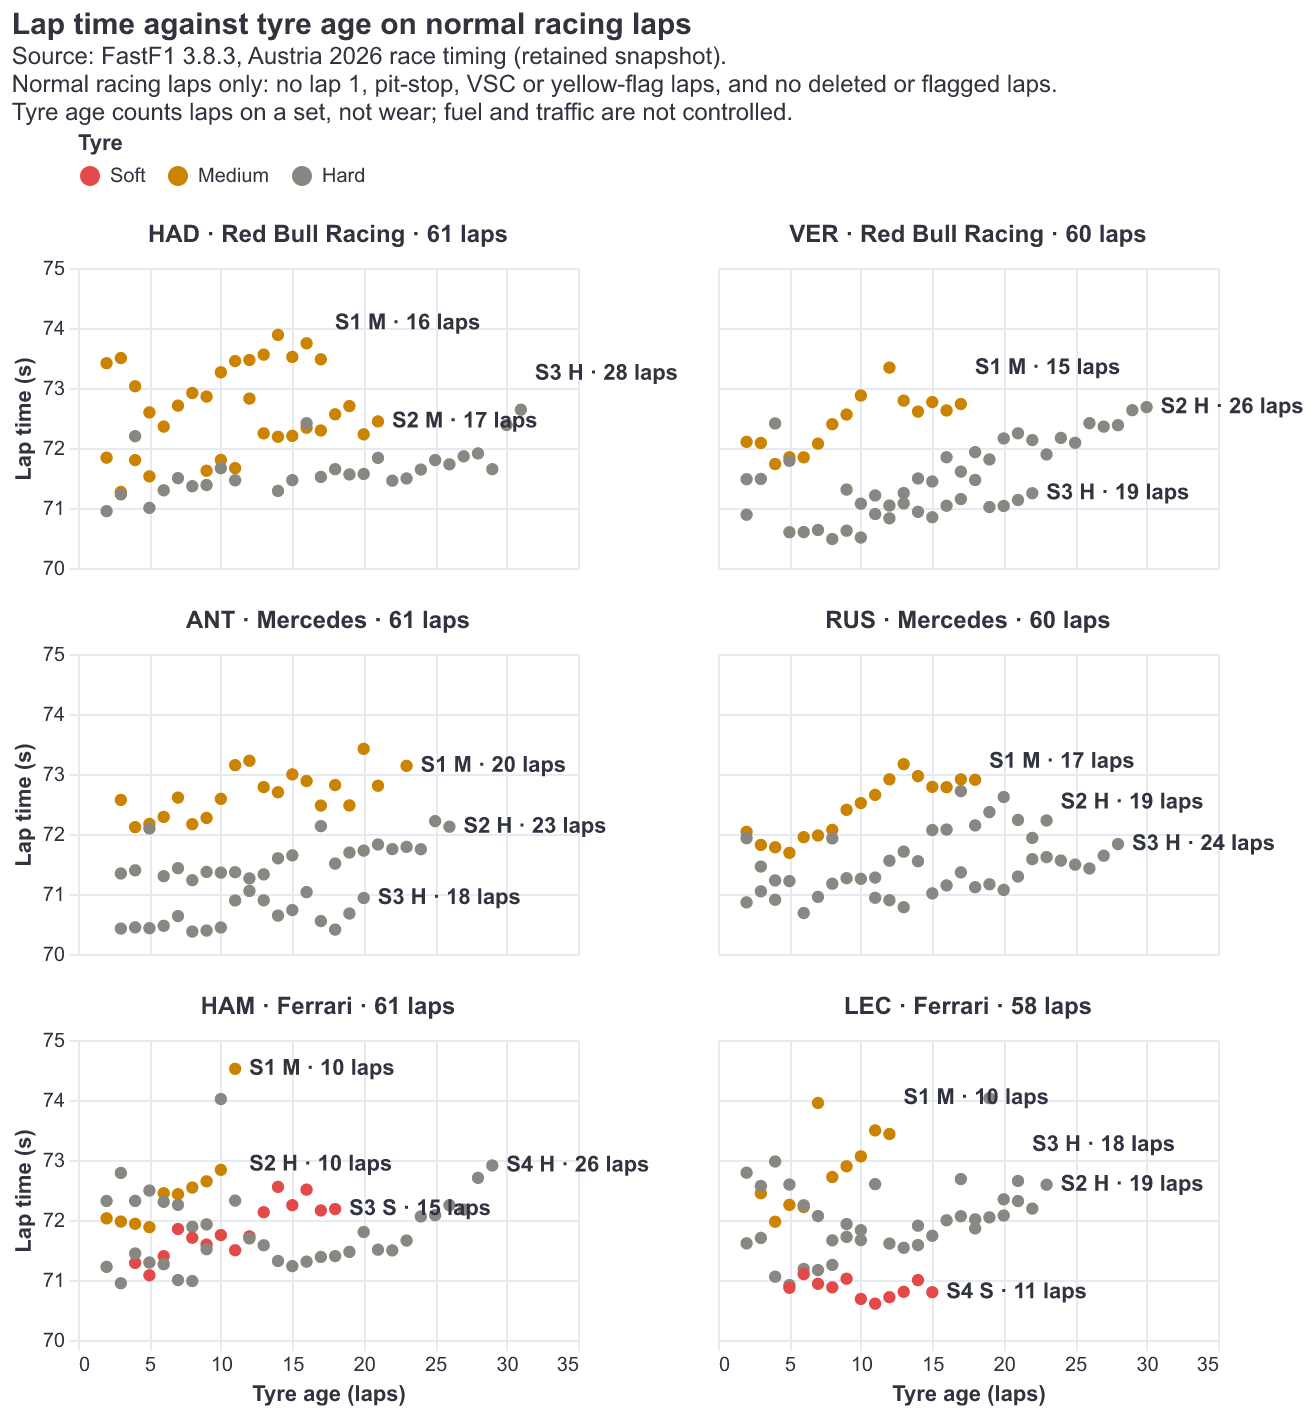
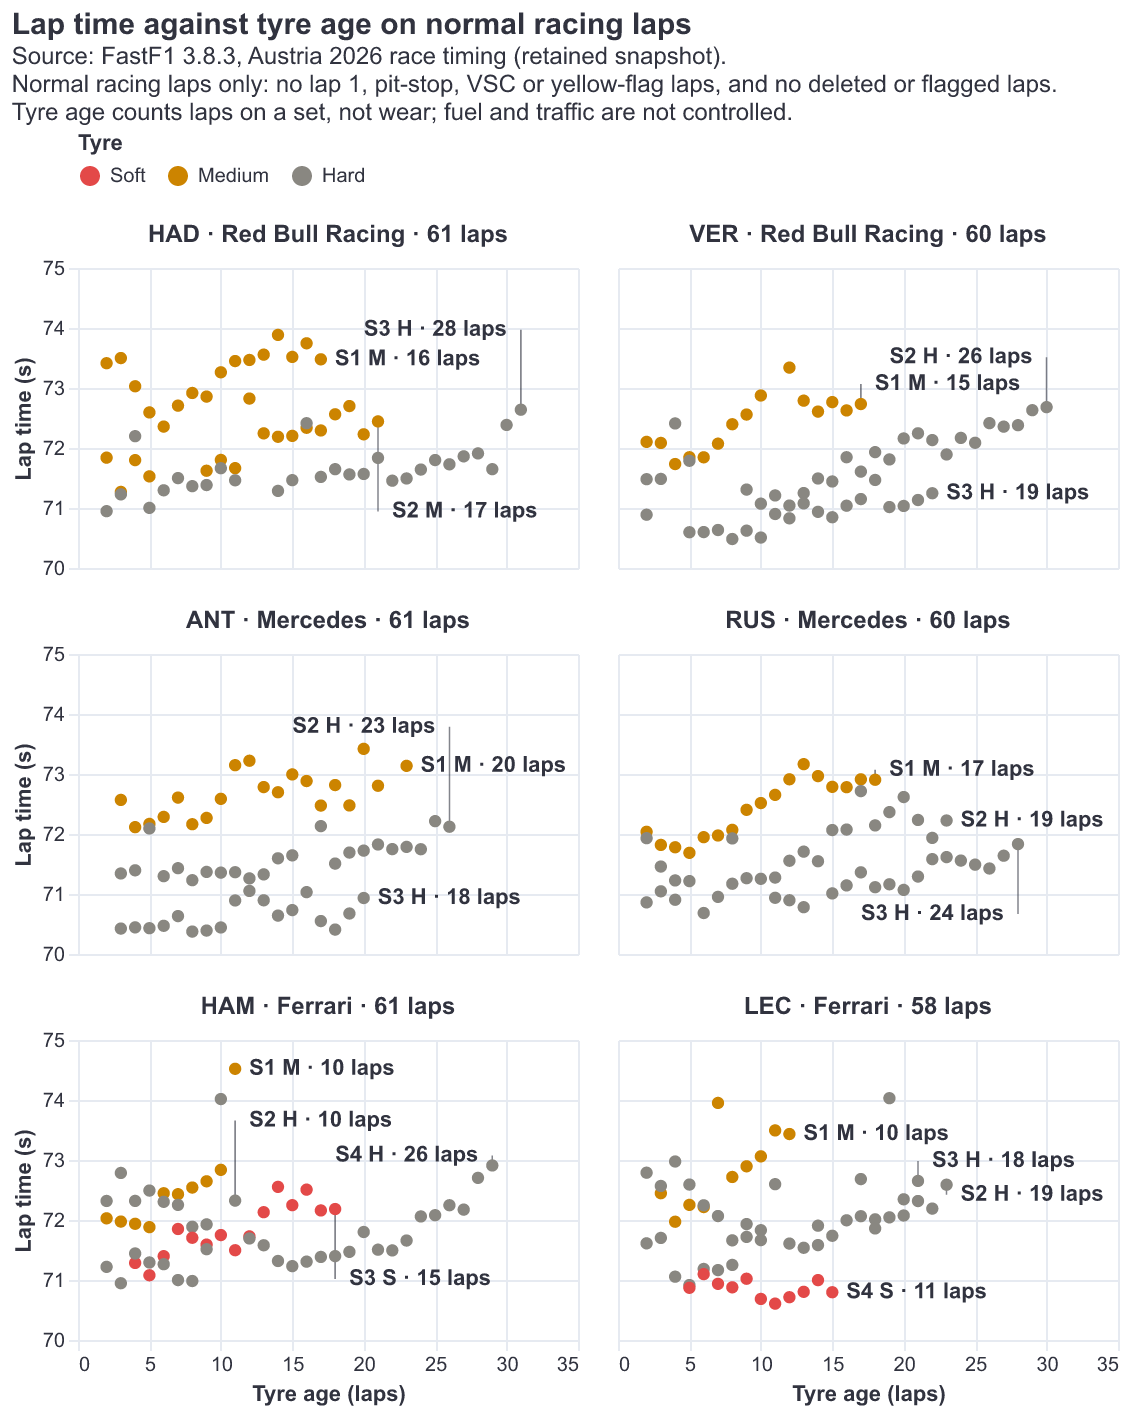
Keep static export labels clear of the data
- Tyre-age labels are placed clear of every dot and label in their panel, flipping left at the edge, with a leader line when moved
- Matched-pace counts just left of zero go on the far side so they no longer cross the zero line
- The VSC export draws normal laps smaller so the affected laps stand out
- Tests check each of these; the usability record is updated

diff --git a/app/charts.py b/app/charts.py
@@ -2,6 +2,7 @@
 from __future__ import annotations
 
 import json
+import math
 from pathlib import Path
 
 import altair as alt
@@ -156,7 +157,9 @@ def matched_pace_chart(summary: pd.DataFrame, mode: str = 'light', legend: bool 
                        pair_domain: list[str] | None = None) -> alt.LayerChart:
     """One selected window and compound; a shared domain keeps comparisons honest across panels."""
     data = summary.assign(Label=summary.MatchedLaps.map(lambda n: f'n={n}'),
-                          Sparse=summary.MatchedLaps.lt(5).map({True: 'Fewer than 5 pairs', False: '5 or more pairs'}))
+                          Sparse=summary.MatchedLaps.lt(5).map({True: 'Fewer than 5 pairs', False: '5 or more pairs'}),
+                          Side=summary.MedianDifferenceSecondsAminusB.between(-.3, 0, inclusive='left').map(
+                              {True: 'left', False: 'right'}))
     x = alt.X('MedianDifferenceSecondsAminusB:Q', title='Median paired difference A − B (s)',
               scale=alt.Scale(domain=[-1.1, 1.1], nice=False))
     # Include every selected value if a future dataset exceeds the current symmetric range.
@@ -176,7 +179,8 @@ def matched_pace_chart(summary: pd.DataFrame, mode: str = 'light', legend: bool 
         shape=alt.Shape('Sparse:N', scale=alt.Scale(domain=['5 or more pairs', 'Fewer than 5 pairs'],
                                                    range=['circle', 'diamond']),
                         legend=alt.Legend(title='Sample size', symbolFillColor=INK[mode], symbolStrokeColor=INK[mode]) if legend else None))
-    counts = base.mark_text(dx=12, align='left', color=INK[mode]).encode(text='Label:N')
+    counts = (base.mark_text(dx=12, align='left', color=INK[mode]).encode(text='Label:N').transform_filter("datum.Side == 'right'")
+              + base.mark_text(dx=-12, align='right', color=INK[mode]).encode(text='Label:N').transform_filter("datum.Side == 'left'"))
     zero = alt.Chart().mark_rule(color=INK[mode], strokeDash=[4, 4]).encode(x=alt.datum(0))
     return alt.layer(zero, points, counts, data=data).properties(height=150)
 
@@ -213,19 +217,49 @@ def pace_chart(pace: pd.DataFrame, mode: str) -> alt.LayerChart:
     return alt.layer(spread, typical, labels).resolve_scale(color='independent', shape='independent').properties(height=52*len(order))
 
 
-def label_heights(pace: pd.DataFrame, clear: float = .6, reach: int = 18) -> pd.Series:
-    """Height for each stint-end label, nudged up only where it would collide with another label in the same panel."""
-    heights = pace.LapTimeSeconds.copy()
-    for driver, rows in pace.groupby('Driver'):
+TYRE_PANEL = {'width': 250, 'height': 150}
+CHAR_PX, LABEL_PX, DOT_PX, OFFSET_PX = 5.4, 13, 4, 7   # Bold 11 px Arial: about 5.1 px a character, plus margin.
+
+
+def tyre_domains(pace: pd.DataFrame) -> tuple[list[float], list[float]]:
+    """Fixed axes for the tyre-age panels, so label placement and drawing use the same scale."""
+    return [0, 5*math.ceil((pace.TyreLife.max()+1)/5)], [math.floor(pace.LapTimeSeconds.min()), math.ceil(pace.LapTimeSeconds.max())]
+
+
+def label_boxes(pace: pd.DataFrame, labels: pd.Series) -> pd.DataFrame:
+    """Place each stint-end label beside its last dot, clear of every dot and label in the panel and inside it.
+
+    Works in pixels: tries the right side first, then the left, moving up or down a few pixels at a time."""
+    (x0, x1), (y0, y1) = tyre_domains(pace)
+    w, h = TYRE_PANEL['width'], TYRE_PANEL['height']
+    px = lambda age: (age-x0)/(x1-x0)*w
+    py = lambda time: (y1-time)/(y1-y0)*h
+    rows = []
+    for driver, group in pace.groupby('Driver'):
+        dots = [(px(a), py(t)) for a, t in zip(group.TyreLife, group.LapTimeSeconds)]
         placed = []
-        ends = rows.sort_values('TyreLife').groupby('Stint').tail(1).sort_values('LapTimeSeconds')
-        for index, end in ends.iterrows():
-            height = end.LapTimeSeconds
-            while any(abs(height-h) < clear and abs(end.TyreLife-age) < reach for age, h in placed):
-                height += .3
-            placed.append((end.TyreLife, height))
-            heights[index] = height
-    return heights
+        ends = group.sort_values('TyreLife').groupby('Stint').tail(1)
+        for index, end in ends.sort_values('LapTimeSeconds', ascending=False).iterrows():
+            width, x, y = len(labels[index])*CHAR_PX, px(end.TyreLife), py(end.LapTimeSeconds)
+            chosen = None
+            for side in ('right', 'left'):
+                left = x+OFFSET_PX if side == 'right' else x-OFFSET_PX-width
+                for step in [0]+[s*k for k in range(1, 17) for s in (-1, 1)]:
+                    top = y+step*5-LABEL_PX/2
+                    box = (left, top, left+width, top+LABEL_PX)
+                    inside = box[0] >= 0 and box[2] <= w and box[1] >= 0 and box[3] <= h
+                    hits_dot = any(box[0]-DOT_PX < dx < box[2]+DOT_PX and box[1]-DOT_PX < dy < box[3]+DOT_PX for dx, dy in dots)
+                    hits_label = any(box[0] < b[2] and b[0] < box[2] and box[1] < b[3] and b[1] < box[3] for b in placed)
+                    if inside and not hits_dot and not hits_label:
+                        chosen = (side, box)
+                        break
+                if chosen:
+                    break
+            side, box = chosen or ('right', (x+OFFSET_PX, y-LABEL_PX/2, x+OFFSET_PX+width, y+LABEL_PX/2))
+            placed.append(box)
+            rows.append({'index': index, 'Side': side, 'LabelY': y1-(box[1]+LABEL_PX/2)/h*(y1-y0), 'Box': box,
+                         'Clear': chosen is not None})
+    return pd.DataFrame(rows).set_index('index')
 
 
 def tyre_age_chart(pace: pd.DataFrame, mode: str = 'light') -> alt.FacetChart:
@@ -234,21 +268,28 @@ def tyre_age_chart(pace: pd.DataFrame, mode: str = 'light') -> alt.FacetChart:
     totals = pace.groupby('Driver').size()
     stint_laps = pace.groupby(['Driver', 'Stint']).LapNumber.transform('size')
     data = pace.assign(Panel=pace.Driver+' · '+pace.Team+' · '+pace.Driver.map(totals).astype(str)+' laps',
-                       Letter='S'+pace.Stint.astype(int).astype(str)+' '+pace.Compound.str[0]+' · '+stint_laps.astype(str)+' laps',
-                       LabelY=label_heights(pace))
+                       Letter='S'+pace.Stint.astype(int).astype(str)+' '+pace.Compound.str[0]+' · '+stint_laps.astype(str)+' laps')
+    placed = label_boxes(pace, data.Letter)
+    data = data.assign(LabelY=placed.LabelY, Side=placed.Side)
     panels = sorted(data.Panel.unique(), key=lambda p: order.index(p.split(' · ')[0]))
+    x_domain, y_domain = tyre_domains(pace)
     base = alt.Chart().encode(
-        x=alt.X('TyreLife:Q', title='Tyre age (laps)'),
-        y=alt.Y('LapTimeSeconds:Q', title='Lap time (s)', scale=alt.Scale(zero=False)),
+        x=alt.X('TyreLife:Q', title='Tyre age (laps)', scale=alt.Scale(domain=x_domain, nice=False)),
+        y=alt.Y('LapTimeSeconds:Q', title='Lap time (s)', scale=alt.Scale(domain=y_domain, nice=False, zero=False)),
         detail='Stint:N')
     points = base.mark_circle(size=38, opacity=1).encode(color=compound_color(), tooltip=[
         'Driver', 'Stint', alt.Tooltip('Compound', title='Tyre'), alt.Tooltip('TyreLife', title='Tyre age (laps)'),
         alt.Tooltip('LapNumber', title='Lap'), alt.Tooltip('LapTimeSeconds', title='Lap time (s)', format='.3f')])
-    ends = base.transform_window(Rank='rank()', sort=[alt.SortField('TyreLife', order='descending')],
-                                 groupby=['Panel', 'Stint']).transform_filter('datum.Rank == 1')
-    labels = ends.mark_text(align='left', dx=7, fontSize=11, fontWeight='bold', color=INK[mode]).encode(
-        y=alt.Y('LabelY:Q', scale=alt.Scale(zero=False)), text='Letter:N')
-    return alt.layer(points, labels, data=data).properties(width=250, height=150).facet(
+    ends = base.transform_filter('isValid(datum.Side)')
+    label_y = alt.Y('LabelY:Q', scale=alt.Scale(domain=y_domain, nice=False, zero=False))
+    # A thin leader joins a label that had to move away from its stint's last dot.
+    leaders = ends.transform_filter('abs(datum.LabelY - datum.LapTimeSeconds) > .15').mark_rule(
+        color=INK[mode], strokeWidth=.8, opacity=.6).encode(y2='LabelY:Q')
+    labels = alt.layer(*[ends.mark_text(align=side, dx=OFFSET_PX if side == 'left' else -OFFSET_PX, fontSize=11, fontWeight='bold',
+                                        color=INK[mode]).encode(y=label_y, text='Letter:N').transform_filter(
+                                            f"datum.Side == '{'right' if side == 'left' else 'left'}'")
+                         for side in ('left', 'right')])
+    return alt.layer(leaders, points, labels, data=data).properties(**TYRE_PANEL).facet(
         facet=alt.Facet('Panel:N', sort=panels, title=None, header=alt.Header(labelFontWeight='bold', labelFontSize=12)),
         columns=2).resolve_scale(x='shared', y='shared')
 
@@ -279,7 +320,9 @@ def vsc_chart(laps: pd.DataFrame, mode: str) -> alt.LayerChart:
     # Lap 1 and pit laps are left out so the VSC effect is not mixed with standing starts or stops.
     data = laps.loc[~(laps.IsFirstLap | laps.IsPitInLap | laps.IsPitOutLap)].assign(
         Phase=lambda d: d.HasVSC.map({True: 'VSC lap', False: 'Other lap'}))
-    dots = alt.Chart(data).mark_point(filled=True, size=70, opacity=1, stroke=SURFACE[mode], strokeWidth=1).encode(
+    dots = alt.Chart(data).mark_point(filled=True, opacity=1, stroke=SURFACE[mode], strokeWidth=1).encode(
+        size=alt.Size('Phase:N', scale=alt.Scale(domain=['VSC lap', 'Other lap'], range=[110, 28]),
+                      legend=alt.Legend(title='Lap type', orient='top')),
         x=alt.X('LapNumber:Q', title='Lap', scale=alt.Scale(domain=[1, int(laps.LapNumber.max())], nice=False)),
         y=alt.Y('LapTimeSeconds:Q', title='Lap time (s)', scale=alt.Scale(zero=False)),
         **driver_marks(data, mode),

diff --git a/tests/test_export_figures.py b/tests/test_export_figures.py
@@ -20,5 +20,48 @@ class ExportFigureTests(unittest.TestCase):
                 self.assertIn('<svg', vlc.vegalite_to_svg(chart.to_dict()))
 
 
+class ExportLabelTests(unittest.TestCase):
+    @classmethod
+    def setUpClass(cls):
+        cls.laps = module.charts.load_data(module.DATA)['laps']
+        cls.pace = cls.laps.loc[cls.laps.EligibleForPace]
+
+    def test_tyre_age_labels_clear_every_dot_and_label_inside_the_panel(self):
+        charts, pace = module.charts, self.pace
+        stint_laps = pace.groupby(['Driver', 'Stint']).LapNumber.transform('size')
+        labels = 'S'+pace.Stint.astype(int).astype(str)+' '+pace.Compound.str[0]+' · '+stint_laps.astype(str)+' laps'
+        placed = charts.label_boxes(pace, labels)
+        self.assertEqual(len(placed), 20)   # One label per stint.
+        self.assertTrue(placed.Clear.all())
+        (x0, x1), (y0, y1) = charts.tyre_domains(pace)
+        w, h = charts.TYRE_PANEL['width'], charts.TYRE_PANEL['height']
+        for driver, rows in placed.join(pace.Driver).groupby('Driver'):
+            boxes = list(rows.Box)
+            dots = pace.loc[pace.Driver.eq(driver)]
+            for i, (left, top, right, bottom) in enumerate(boxes):
+                with self.subTest(driver=driver, label=labels[rows.index[i]]):
+                    self.assertTrue(0 <= left and right <= w and 0 <= top and bottom <= h)
+                    for a, t in zip(dots.TyreLife, dots.LapTimeSeconds):
+                        x, y = (a-x0)/(x1-x0)*w, (y1-t)/(y1-y0)*h
+                        self.assertFalse(left < x < right and top < y < bottom)
+                    for other in boxes[i+1:]:
+                        self.assertFalse(left < other[2] and other[0] < right and top < other[3] and other[1] < bottom)
+
+    def test_matched_counts_never_cross_the_zero_line(self):
+        summary = module.charts.matched_pace(self.laps)
+        spec = module.charts.matched_pace_chart(summary).to_dict()
+        sides = {(r['Pair'], r['Window'], r['Compound']): r['Side'] for r in spec['datasets'][spec['data']['name']]}
+        self.assertEqual(sides[('ANT − RUS', '41–60', 'HARD')], 'left')   # −0.077 s: a right-hand label would cross zero.
+        self.assertEqual(sides[('HAM − LEC', '1–20', 'HARD')], 'left')    # −0.214 s.
+        self.assertEqual(sides[('ANT − RUS', '61–71', 'HARD')], 'right')  # −0.883 s: room before zero.
+        self.assertEqual(sides[('ANT − RUS', '1–20', 'MEDIUM')], 'right') # Positive values point away from zero already.
+
+    def test_vsc_laps_are_drawn_larger_than_other_laps(self):
+        layer = module.charts.vsc_chart(self.laps, 'light').to_dict()['layer'][-1]
+        scale = layer['encoding']['size']['scale']
+        self.assertEqual(scale['domain'], ['VSC lap', 'Other lap'])
+        self.assertGreater(scale['range'][0], scale['range'][1])
+
+
 if __name__ == '__main__':
     unittest.main()

diff --git a/docs/usability-check/README.md b/docs/usability-check/README.md
@@ -30,8 +30,7 @@ Automated checks live in `tests/test_accessibility.py` and `tests/test_replay.py
 
 ## Remaining limitations
 
-- Tyre-age export: a few end-of-stint labels sit on top of dots (e.g. LEC "S1 M", HAM "S3 S") and the HAD/VER labels reach the panel edge. They stay readable.
-- Matched-pace export: "n" labels next to a point close to zero touch the zero line.
-- VSC export: the dots crowd together at normal pace; only the VSC laps stand out. The dashboard view is the clearer one.
+- Fixed 7 November 2026: tyre-age export labels now sit clear of every dot and label inside their panel, with a thin leader line where a label moved; matched-pace "n" labels just left of zero move to the far side so they no longer cross the zero line; the VSC export draws normal laps smaller so the VSC laps stand out. Tests check all three.
+- VSC export: normal-pace dots still overlap each other; read exact values from the dashboard view.
 - Contrast was computed from the colours used, not measured from screenshots.
 - Not tested: real screen readers, Safari/Firefox, touch devices, printed output.
